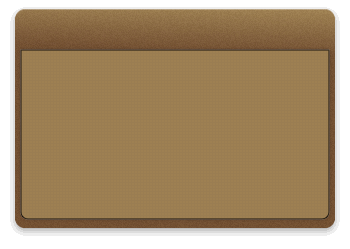
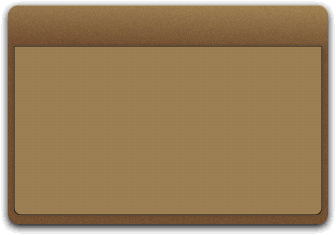
updated leather box

Changed region(s): [[0.0, 0.0, 1.0, 1.0]]

diff --git a/app/assets/stylesheets/home.css.scss b/app/assets/stylesheets/home.css.scss
@@ -135,8 +135,8 @@ body{
 
 	.explanation-box{
 		background: image-url("home/leather_square.png") no-repeat top center;
-		width:330px;
-		height:229px;
+		width:336px;
+		height:235px;
 
 		h4{
 			text-align:center;
